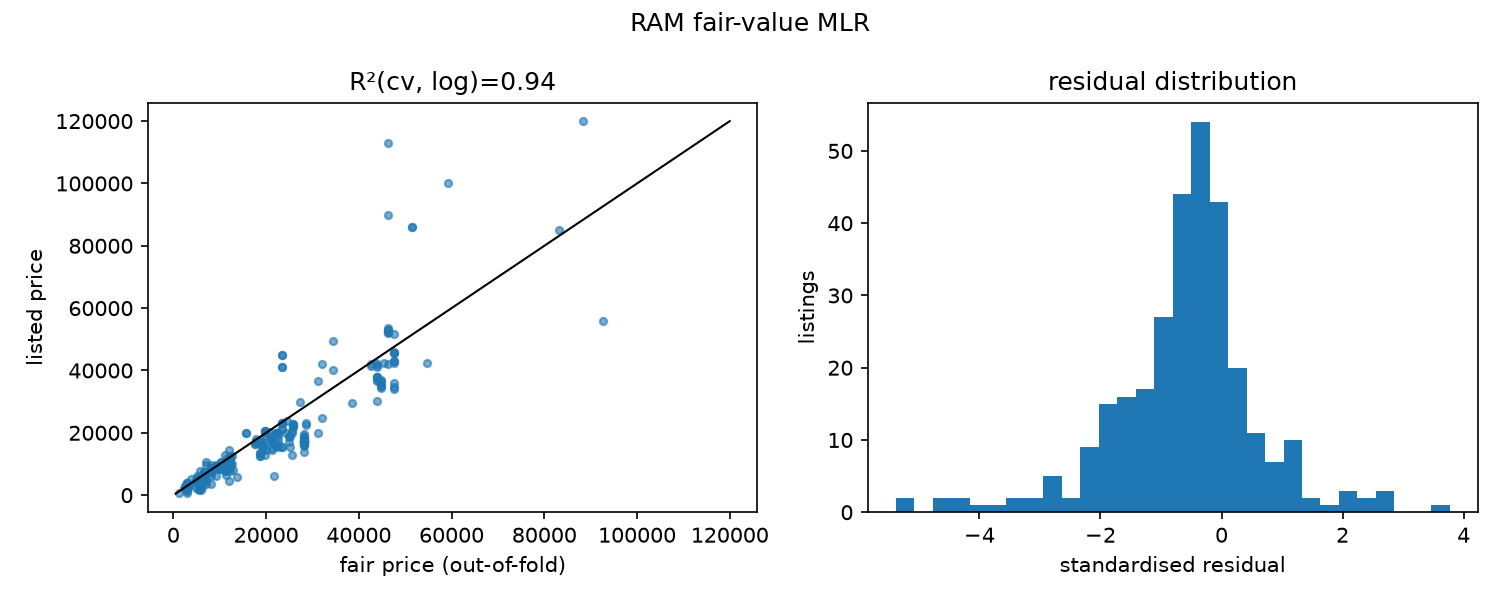
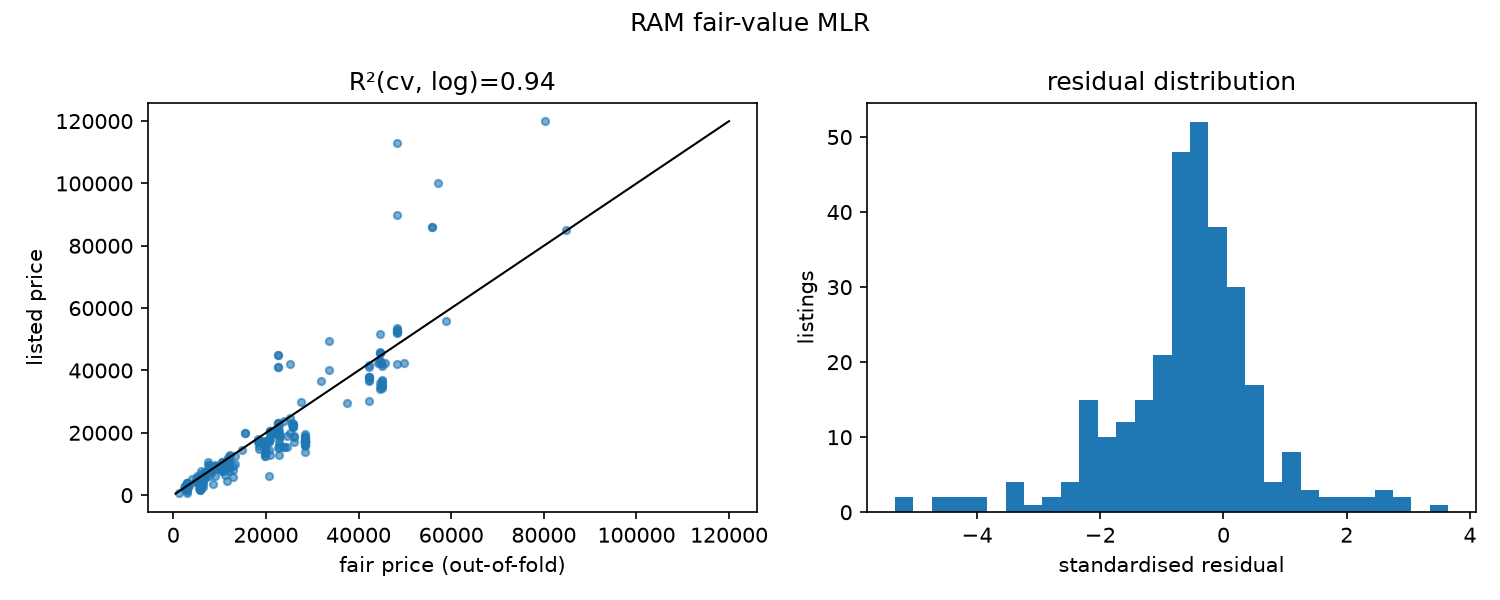
Regenerate figures from the 2026.11-v20 run and queue round 22

diff --git a/loop/BACKLOG.md b/loop/BACKLOG.md
@@ -15,14 +15,20 @@
   2. /insights siblingSentence: "…เกิน 5% 3 คู่" puts two numbers side by side, write "…เกิน 5% รวม 3 คู่"; "ไม่ดีกว่า…เลยสักด้าน" reads as a double negative, use the /ml wording "ด้อยกว่าหรือเท่ากับอีกรุ่นทุกด้าน" on both pages.
   3. `fitExample` falls back to all points (possibly flagged) when none are trusted, contradicting the "never a flagged listing" comment; return null (hide the example) instead, or fix the comment.
   4. FitScatter tooltip does not say a point is "ประเมินไม่แน่นอน".
-- [ ] **Round 21: CPU fair prices too high for high-thread Ryzen → fake top CPU deals** (M, user-tester round 20). Live v18: the top CPU deals are Ryzen 9 9900X3D ฿22,090 vs fair ฿32,517 (DEAL 86), Ryzen 7 8700F ฿6,690 vs ฿9,836 (85), Ryzen 9 9950X ฿20,990 vs ฿30,463 (84); 9950X3D fair ฿46,185 vs market ฿25–27k (unscored). Suspect `log2_threads` β +0.597 dominating once unlocked/demand were dropped. Also 8500G fair > 7600 (cross-generation, not a sibling).
-  - เกณฑ์ผ่าน: 1) these listings get believable fair prices or are flagged 2) CPU R²(cv)/MAPE(cv) not worse than v18 (.883 / .224) 3) inversions not worse than v18 (6) 4) GroupKFold + random-split evidence as in round 20.
-- [ ] **Round 20 follow-ups** (S)
-  1. Parser reads "9950X3D2" as unlocked=False, so the sibling check treats 9950X3D as the better part (v18 fair: X3D2 ฿39,684 < X3D ฿46,185). Treat X3D2 as X (and ≥ X3D).
-  2. Explain on /ml and the product page that the CPU fair price ignores the K/X unlock premium and that the CPU MLR has no demand features (the MLR copy on /ml says views/sales rank are used, which is false for CPU since v18).
-  3. /ml CPU tree node "ระดับรุ่น (Ryzen / Core) ≤ 6 (เช่น R6, i6)?" names tiers that do not exist; describe the threshold between real tiers (e.g. "Ryzen 5 / Core i5 หรือต่ำกว่า").
+- [ ] **Round 22: RAM / SSD fair prices too high → about a third of RAM and 42% of SSD listings flagged by the market check** (M, user decision in round 21). Live v20: RAM 79 and SSD 70 listings are flagged because their fair price is ≥ 25% above what the stores charge. The SSD MLR systematically overprices cheap drives at 2–4× (Patriot P300, Crucial MX500, Kingston NV2). Investigate with ablation the same way as CPU in rounds 20–21: outliers or segments that distort the slope, plus missing features.
+  - เกณฑ์ผ่าน: 1) the RAM/SSD market-check share drops clearly 2) R²(cv)/MAPE(cv) not worse than v20 (RAM .939/.176, SSD .888/.197) 3) inversions not worse 4) GroupKFold + random-split evidence
+- [ ] **Round 21 follow-ups (live, model 2026.11-v20)** (S)
+  1. A listing flagged by the market check shows two percentages that read as contradictory. The top line says "ราคาจริง ถูกกว่า 23%" (vs fair), while the reason says "สูงกว่าราคาที่ร้านขาย 31%" (vs the median); Apacer AS350 /product/255 shows 37% vs 54%. When the fair price is flagged, consider hiding the % vs fair on the top line or making it clear the % uses a different base.
+  2. The single-store price in the reason is the median of that store's listings (Hiksemi WAVE 256GB "฿1,575", while the listings are ฿1,560 / ฿1,590). Choose one method (median vs lowest per store), write it on /ml, and measure the effect: with the lowest price per store, SN850X 2TB (+30%), Hiksemi DDR4 16GB and Corsair DDR4 32GB would be flagged.
+  3. Hiksemi WAVE(P) NVMe and WAVE(S) SATA are linked as the same model (record linkage).
+  4. Ryzen 5 5500 > 5600 is the only CPU inversion left (since v18).
+  5. The CPU SLR without Threadripper has R² 0.31 (฿611/core); core count alone explains little. Consider another X for CPU (e.g. threads, or tier) for the presentation.
+  6. Threadripper names on mobile cards are truncated to "Ryzen Threadripper Pr..." on all 4 cards; the stray "–" after "ที่ JIB –" and at the end of the store rows on Threadripper pages.
+  7. 8700G, 8600G, 12100F, 12700KF and 3400G show "สเปกในชื่อสินค้าไม่ครบ" (core/thread count is in the spec table but not parsed). Reading the spec table made 8700F worse in round 21; ablate again.
+  8. Pushing to main still triggers a Vercel git build that errors ("Couldn't find any `pages` or `app` directory"), although `web/vercel.json` sets `git.deploymentEnabled: false`. Turn it off in project settings, or set Root Directory to web.
+  9. Minor review items: `market_median` groupby drops rows whose merchant is NaN (`dropna=False`); `test_requests_are_spaced_by_min_interval` is timing-sensitive and flaky under load.
+- [ ] **Round 20 follow-ups (not done in round 21)** (S)
   4. 8500G product page shows "Deal 85" together with "ราคาเหมาะสม" and "สรุปไม่ได้ว่าถูกกว่าตลาดจริง" — reads as contradictory.
-  5. `unlocked` regex misses "XE" (i9-7980XE → False); only affects sibling dominance now.
   6. scrape.yml runs train with `!cancelled()` even when link fails, so a link failure trains on stale specs.
 - [ ] **Round 18 follow-ups (live, model 2026.11-v16)**
   1. Hydration error #418 on production list pages (5 in ~110 loads on v15). Server HTML is correct; mismatch at `div.flex` around `AutoSubmitSelect` under `<section products-title>`. Do NOT wrap page content in Suspense. Start from the header Suspense (HeaderSearch / SiteNav with useSearchParams).
@@ -93,6 +99,11 @@
 
 ## Done
 (บรรทัดเดียวต่องาน)
+- รอบ 21 (2026-11-14, d3c278b + 467f307, model v20):
+  - Threadripper is a workstation part: no fair price, out of the CPU MLR, SLR and tree.
+  - CPU MLR adds x3d_share/apu_series and drops log2_cores/x3d; R²cv .883→.954, MAPE .224→.103, inversions 6→1.
+  - Market check (fair price ≥ 25% above the median store price → uncertain, every category); fake deals 9900X3D/9950X/8700F/4500/7700X3D are gone.
+  - X3D2/XE are read as unlocked. /ml lists the features each MLR uses.
 - รอบ 20 (2026-11-14, 15f8f12, model v18): CPU MLR + has_igpu, ตัด base clock / unlocked / demand (สัมประสิทธิ์ติดลบ); parser: Threadripper/Core X ไม่มี iGPU; CPU R²cv .851→.883, คู่กลับด้าน 19→6; ผู้ใช้เลือกคง has_igpu
 - รอบ 19 (2026-11-13, fa93d09, model v17): รุ่นสเปกด้อยที่ราคายุติธรรมสูงกว่ารุ่นพี่น้องเกิน 5% ติด "ประเมินไม่แน่นอน" พร้อมเหตุผลอ้างรุ่นคู่ (ผู้ใช้เลือกติดฝั่งเดียว) GPU 3 / CPU 19 / RAM 1 / SSD 1 คู่; deal of the week เลิกเป็น RTX 3050 6GB
 - รอบ 18 (2026-11-13, 5f279a1, model v16): /ml พร้อมนำเสนอ (centroid, Decision Tree, legend, ใช่ซ้าย, dendrogram, สูตรครบ, ปุ่มเลื่อนต้นไม้), กลุ่มที่เหลือชื่อ "ยอดขายไม่เด่น" ติดป้ายเมื่อขายดีกว่า < 50%, ชิปกลุ่มว่าง, จำนวนรุ่นตรงกันทุกหน้า, /insights ใช้มัธยฐาน; ปิด Vercel git auto-deploy (1ac51e0)
